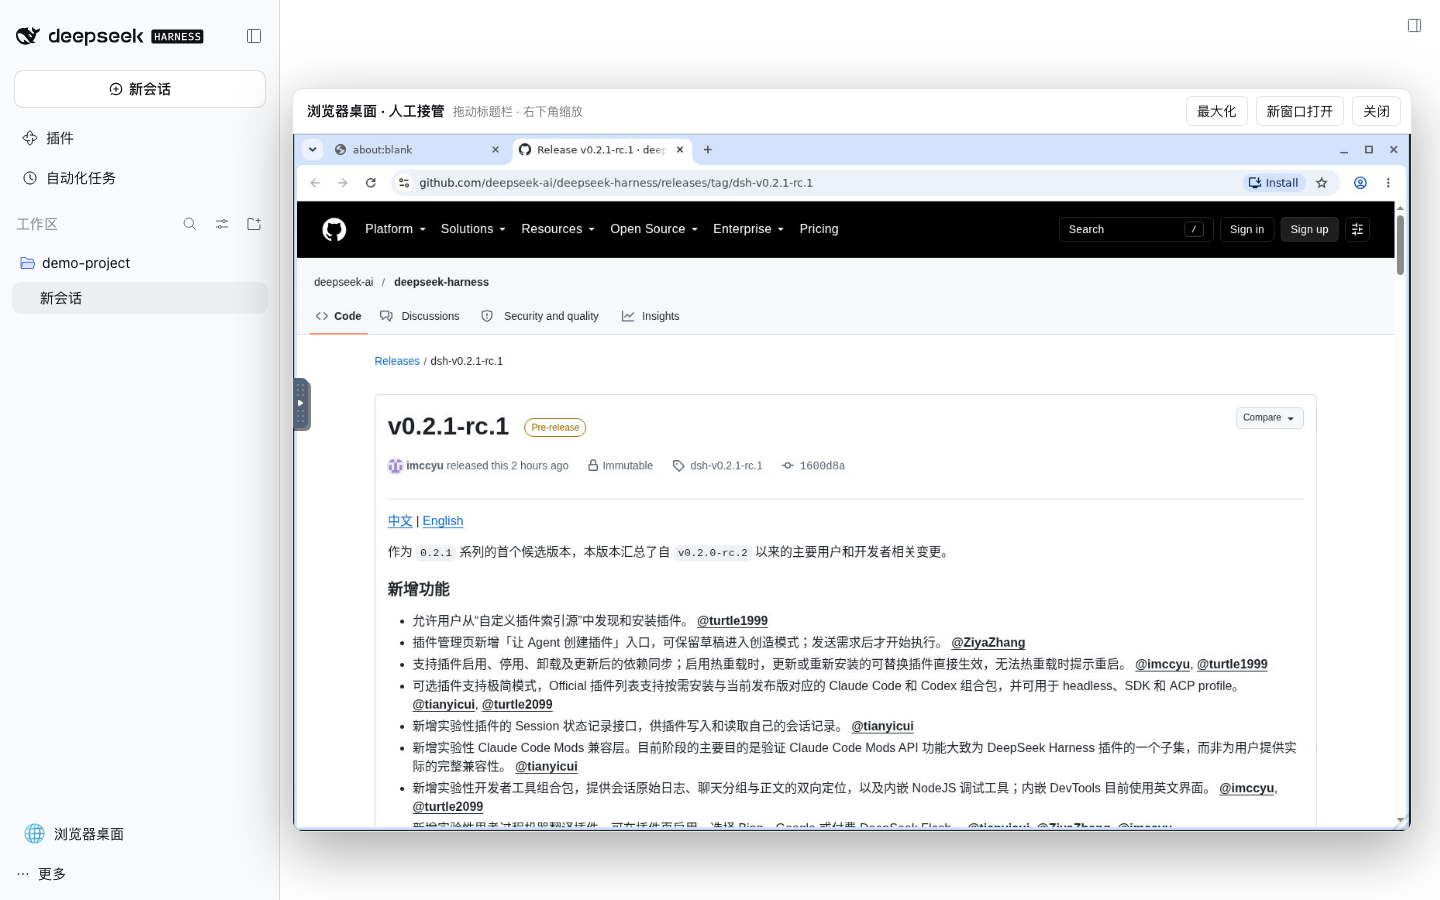
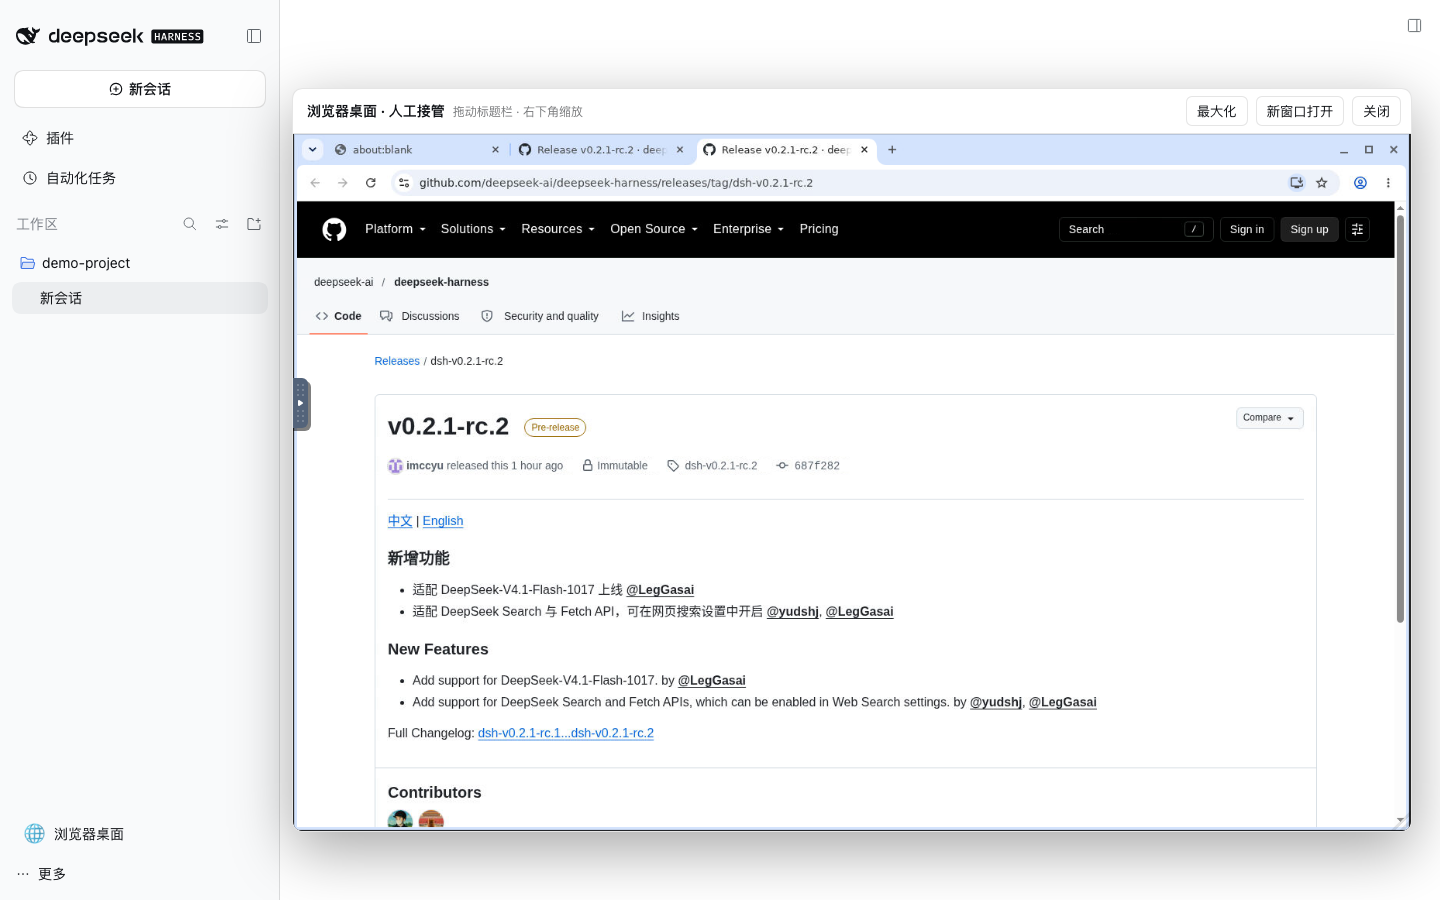
docs: refresh Light screenshots for DSH 0.2.1 RC2

diff --git a/assets/README.md b/assets/README.md
@@ -1,19 +1,19 @@
 # Assets
 
-All three screenshots were captured on **2026-10-08**, using the actual Web UI in **Light** mode at **1440 × 900** pixels. A headless Playwright browser captured clean, temporary containers; the user's existing deployment, model configuration, workspaces, and sessions were not used or changed.
+All three screenshots were captured on **2026-10-17**, using the actual **DSH 0.2.1-rc.2** Web UI in **Light** mode at **1440 × 900** pixels. A headless Playwright browser captured a clean, temporary market-variant container; the user's existing deployment, model configuration, workspaces, and sessions were not used or changed.
 
 | Asset | Image / component | View |
 | --- | --- | --- |
-| `deepseek-harness-web.png` | `runzhliu/deepseek-harness:0.2.1-alpha.1-r1` | New-session page with an empty `demo-project` workspace, Plugins, and Automation tasks. |
-| `browser-desktop-webui.png` | Same default image; `@runzhliu/dsh-browser-desktop@0.1.5` | Real container Chromium opening the public `deepseek-ai/deepseek-harness` GitHub repository inside the movable, resizable desktop panel. |
-| `plugin-market-webui.png` | `runzhliu/deepseek-harness:0.2.1-alpha.1-r1-market.1`; `dshmarket@1.66.9` | Settings → Plugin market → Discover. This optional community market is not included in the default image. |
+| `deepseek-harness-web.png` | `runzhliu/deepseek-harness:0.2.1-rc.2-r1-market.1` | New-session page with an empty `demo-project` workspace, Plugins, and Automation tasks. The core Web UI is shared with the default image. |
+| `browser-desktop-webui.png` | Same market image; `@runzhliu/dsh-browser-desktop@0.1.5` | Real container Chromium opening the public official `dsh-v0.2.1-rc.2` GitHub Release inside the movable, resizable desktop panel. |
+| `plugin-market-webui.png` | Same market image; `dshmarket@1.66.9` | Settings → Plugin market → Discover. This optional community market is not included in the default image. |
 
 ## Capture notes
 
 - Use disposable containers with temporary DSH state and an empty demonstration workspace; do not reuse personal volumes or provider credentials.
 - Accept the first-run notice, defer provider setup, select Light in Settings, and open the empty `demo-project` workspace through the normal UI.
-- For the desktop view, navigate the container's Chromium to the public upstream repository. Move and resize the overlay with its normal controls; both Harness and the GitHub page use a light theme.
+- For the desktop view, navigate the container's Chromium to the public upstream RC2 Release page. Move and resize the overlay with its normal controls; both Harness and the GitHub page use a light theme.
 - For the market view, wait for the catalog and compatibility indicators to load. Do not install a plugin merely to take the screenshot. Catalog entries, metrics, and compatibility indicators are a dated snapshot, not an endorsement or an installation test.
 - Capture only the page viewport, excluding the host browser's address bar and temporary launch token. Inspect each PNG for secrets, internal endpoints, private paths, and UI errors before replacing the README assets.
 
-The model name shown by the UI is its default selection, not evidence of a configured provider or successful inference. No API credentials, personal session content, model responses, or internal service endpoints are present. These are unaltered application screenshots, not generated mockups.
+No model was configured or called; the model selector is empty. No API credentials, personal session content, model responses, or internal service endpoints are present. These are unaltered application screenshots, not generated mockups.

diff --git a/README.en.md b/README.en.md
@@ -40,7 +40,7 @@ The default image runs the official `@deepseek-ai/dsh` Web UI in a non-root Node
 
 ![DeepSeek Harness Web UI running from this image](assets/deepseek-harness-web.png)
 
-_Light-theme capture (2026-10-17, DSH `0.2.1-rc.1`) from an isolated, empty demo workspace. No personal sessions or credentials are shown. No model was configured and no model call was made._
+_Light-theme capture (2026-10-17, DSH `0.2.1-rc.2`) from an isolated, empty demo workspace. No personal sessions or credentials are shown. No model was configured and no model call was made._
 
 ## Project status
 
@@ -260,7 +260,7 @@ The public plugin uses Harness's `sidebar.footer.action` and `shell.overlay` ext
 
 ![Movable and resizable Chromium browser embedded in the Harness Web UI](assets/browser-desktop-webui.png)
 
-_Light-theme capture (2026-10-17, DSH `0.2.1-rc.1`, browser-desktop plugin `0.1.5`): the browser panel is inside Harness and displays the official RC1 GitHub Release page._
+_Light-theme capture (2026-10-17, DSH `0.2.1-rc.2`, browser-desktop plugin `0.1.5`): the browser panel is inside Harness and displays the official RC2 GitHub Release page._
 
 This follows the visible-desktop idea from [`docker-antigravity`](https://github.com/runzhliu/docker-antigravity) without adopting its amd64 base or Selkies. Debian's native packages keep the image usable on both Apple Silicon and x86 Linux. The official [Browser Use architecture](https://github.com/deepseek-ai/deepseek-harness/blob/master/docs/subsystems/browser-use.md) and [Sidebar Browser limitations](https://github.com/deepseek-ai/deepseek-harness/blob/master/packages/client/ui-sidebar-browser/README.md) describe the boundary between these layers. Port 6080 is loopback-only like 3080; the native noVNC endpoint has no authentication and must never be exposed directly. The optional LAN overlay carries the versioned `/novnc-*` route through the same HTTPS and authentication boundary as the Web UI.
 
@@ -316,7 +316,7 @@ The variant has the unambiguous `runzhliu/deepseek-harness:0.2.1-rc.2-r1-market.
 
 ![Light-theme community plugin market in the optional market image](assets/plugin-market-webui.png)
 
-_Captured from the optional market image (2026-10-17, DSH `0.2.1-rc.1`, `dshmarket@1.66.9`); this page is absent from the default image. Catalog entries and compatibility indicators change over time. This screenshot shows browsing only; none of the displayed plugins were installed._
+_Captured from the optional market image (2026-10-17, DSH `0.2.1-rc.2`, `dshmarket@1.66.9`); this page is absent from the default image. Catalog entries and compatibility indicators change over time. This screenshot shows browsing only; none of the displayed plugins were installed._
 
 The market package itself is pinned and copied at build time. Plugins installed through it and the pnpm store persist in the `dsh-home` volume. Installation needs container egress to npm/GitHub, and third-party build scripts should remain blocked until separately reviewed and approved. One-click market restart is disabled; apply lifecycle changes with `docker compose restart` or a Kubernetes rollout.
 

diff --git a/README.md b/README.md
@@ -40,7 +40,7 @@
 
 ![DeepSeek Harness 浅色 Web UI：新版首页与导航](assets/deepseek-harness-web.png)
 
-_浅色界面实拍（2026-10-17，DSH `0.2.1-rc.1`）。使用独立空白演示工作区，不包含个人会话或凭据，未配置模型，也未发起模型调用。_
+_浅色界面实拍（2026-10-17，DSH `0.2.1-rc.2`）。使用独立空白演示工作区，不包含个人会话或凭据，未配置模型，也未发起模型调用。_
 
 ## 项目状态
 
@@ -259,7 +259,7 @@ docker compose --env-file .env.lan -f compose.yaml -f compose.lan.yaml \
 
 ![Harness WebUI 中可移动、缩放的内嵌 Chromium 浏览器](assets/browser-desktop-webui.png)
 
-_浅色界面实拍（2026-10-17，DSH `0.2.1-rc.1`、浏览器桌面插件 `0.1.5`）：浏览器浮窗位于 Harness WebUI 内，图中打开的是官方 RC1 GitHub Release 页面。_
+_浅色界面实拍（2026-10-17，DSH `0.2.1-rc.2`、浏览器桌面插件 `0.1.5`）：浏览器浮窗位于 Harness WebUI 内，图中打开的是官方 RC2 GitHub Release 页面。_
 
 该实现参考了 [`docker-antigravity`](https://github.com/runzhliu/docker-antigravity) 的可视桌面思路，但没有采用其 `amd64` 基础镜像和 Selkies，而是使用 Debian 原生架构软件包，因此 Apple Silicon 与 x86 Linux 均可运行。官方的 [Browser Use 架构](https://github.com/deepseek-ai/deepseek-harness/blob/master/docs/subsystems/browser-use.md)和 [Sidebar Browser 限制](https://github.com/deepseek-ai/deepseek-harness/blob/master/packages/client/ui-sidebar-browser/README.md)说明了两类浏览器能力的边界。6080 与 3080 一样只绑定宿主机回环地址；noVNC 原生端口没有认证，不能直接暴露。可选 LAN overlay 会把版本化 `/novnc-*` 路径放到与 WebUI 相同的 HTTPS 和认证入口下。
 
@@ -315,7 +315,7 @@ DSH_WORKSPACE=/absolute/path/to/your/project \
 
 ![可选 market 镜像中的浅色社区插件市场](assets/plugin-market-webui.png)
 
-_可选 market 镜像实拍（2026-10-17，DSH `0.2.1-rc.1`、`dshmarket@1.66.9`）；默认镜像没有此页面。目录与兼容性标记会变化，截图仅浏览，未安装图中插件。_
+_可选 market 镜像实拍（2026-10-17，DSH `0.2.1-rc.2`、`dshmarket@1.66.9`）；默认镜像没有此页面。目录与兼容性标记会变化，截图仅浏览，未安装图中插件。_
 
 市场自身在构建期固定并打入可选镜像；通过市场安装的插件和 pnpm store 会写入持久化的 `dsh-home` 卷。安装过程需要容器能够访问 npm/GitHub，第三方包的构建脚本仍应在审查后单独授权。市场内的一键重启已禁用，变更需要通过 `docker compose restart` 或 Kubernetes rollout 进入新进程。
 

diff --git a/CHANGELOG.md b/CHANGELOG.md
@@ -8,6 +8,7 @@ All notable changes to this project are documented here.
 
 - Upgrade the official runtime and Browser Use packages to `@deepseek-ai/dsh@0.2.1-rc.2`, with immutable container revision `0.2.1-rc.2-r1` and Helm chart `0.1.25`.
 - Include upstream DeepSeek-V4.1-Flash-1017 support and opt-in DeepSeek Search / Fetch APIs in Web Search settings; do not enable these APIs or change provider credentials automatically.
+- Refresh all three README screenshots from a real, isolated RC2 Light-theme demo, and update their capture provenance: the start page, optional community market, and browser desktop showing the official RC2 Release.
 - Retain browser-desktop `0.1.5`, optional market `1.66.9`, pinned ungoogled-chromium `152.0.7977.82-1`, and the existing authentication, loopback/LAN, and sandbox boundaries without modifying upstream source.
 
 ## 0.1.24 - 2026-10-17
